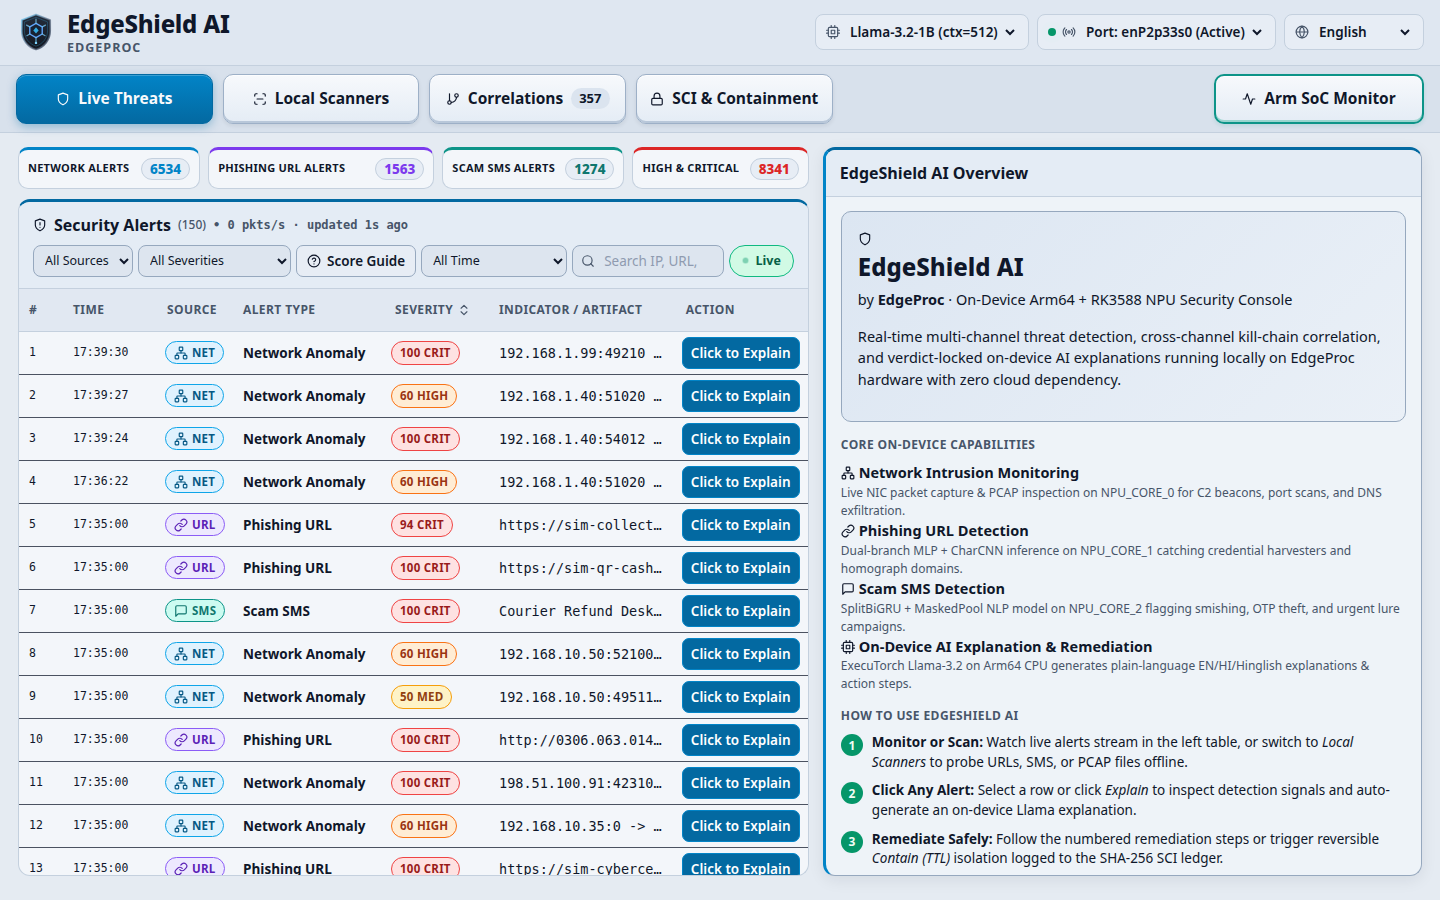
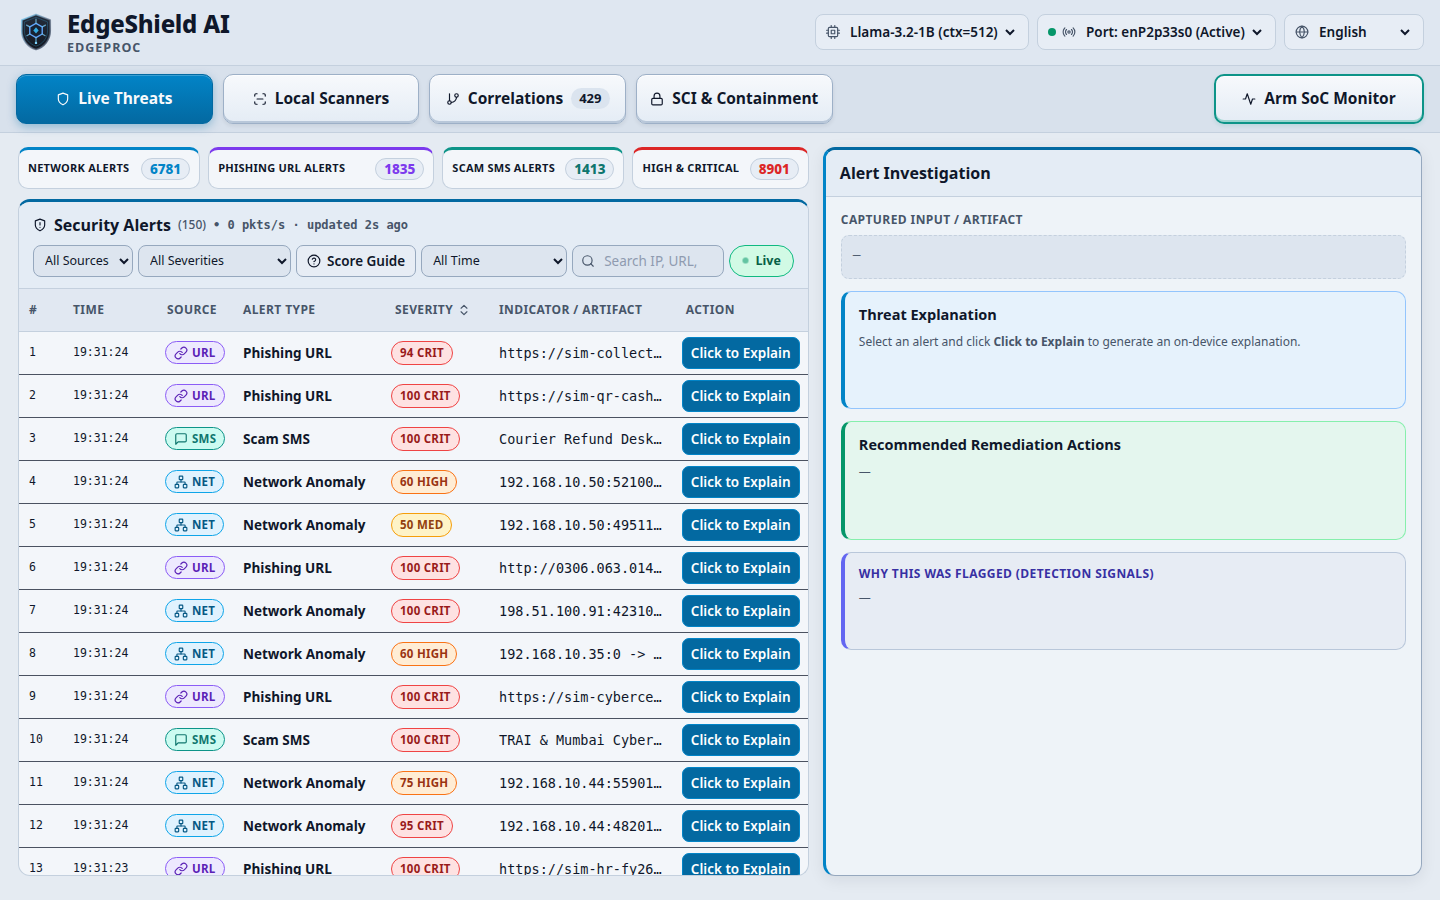
Updated UI

diff --git a/app/static/index.html b/app/static/index.html
@@ -1088,31 +1088,28 @@
       background: #dbeafe;
       box-shadow: inset 3px 0 0 #0ea5e9;
     }
-    @keyframes newRowPulseNet {
-      0%, 100% { background: transparent; box-shadow: inset 4px 0 0 transparent; }
-      45% { background: rgba(2, 132, 199, 0.26); box-shadow: inset 4px 0 0 #0284c7; }
-    }
-    @keyframes newRowPulseUrl {
-      0%, 100% { background: transparent; box-shadow: inset 4px 0 0 transparent; }
-      45% { background: rgba(124, 58, 237, 0.24); box-shadow: inset 4px 0 0 #7c3aed; }
-    }
-    @keyframes newRowPulseSms {
-      0%, 100% { background: transparent; box-shadow: inset 4px 0 0 transparent; }
-      45% { background: rgba(13, 148, 136, 0.24); box-shadow: inset 4px 0 0 #0d9488; }
-    }
+    /* Static non-blinking border highlight for new alerts by criticality */
     .ev-row.ev-new,
     tr.ev-row.new-row,
     tr.ev-row.row-new {
-      animation: newRowPulseNet 0.8s ease-in-out 5;
+      box-shadow: inset 4px 0 0 #0284c7, inset 0 1px 0 rgba(2, 132, 199, 0.3), inset 0 -1px 0 rgba(2, 132, 199, 0.3);
+      background: rgba(2, 132, 199, 0.04);
     }
-    tr.ev-row.ev-new[data-src="net"] {
-      animation: newRowPulseNet 0.8s ease-in-out 5;
+    tr.ev-row.ev-new[data-tier="critical"] {
+      box-shadow: inset 4px 0 0 #dc2626, inset 0 1px 0 rgba(220, 38, 38, 0.42), inset 0 -1px 0 rgba(220, 38, 38, 0.42);
+      background: rgba(220, 38, 38, 0.05);
     }
-    tr.ev-row.ev-new[data-src="url"] {
-      animation: newRowPulseUrl 0.8s ease-in-out 5;
+    tr.ev-row.ev-new[data-tier="high"] {
+      box-shadow: inset 4px 0 0 #ea580c, inset 0 1px 0 rgba(234, 88, 12, 0.42), inset 0 -1px 0 rgba(234, 88, 12, 0.42);
+      background: rgba(234, 88, 12, 0.05);
     }
-    tr.ev-row.ev-new[data-src="sms"] {
-      animation: newRowPulseSms 0.8s ease-in-out 5;
+    tr.ev-row.ev-new[data-tier="medium"] {
+      box-shadow: inset 4px 0 0 #d97706, inset 0 1px 0 rgba(217, 119, 6, 0.42), inset 0 -1px 0 rgba(217, 119, 6, 0.42);
+      background: rgba(217, 119, 6, 0.05);
+    }
+    tr.ev-row.ev-new[data-tier="low"] {
+      box-shadow: inset 4px 0 0 #059669, inset 0 1px 0 rgba(5, 150, 105, 0.42), inset 0 -1px 0 rgba(5, 150, 105, 0.42);
+      background: rgba(5, 150, 105, 0.05);
     }
     tr.ev-row[data-src="net"] .new-tag { background: #0284c7; border-color: #0369a1; color: #f0f9ff; }
     tr.ev-row[data-src="url"] .new-tag { background: #7c3aed; border-color: #6d28d9; color: #f5f3ff; }
@@ -4364,7 +4361,7 @@ function renderOverviewTable() {
     const srcLow = String(e.source || '').toLowerCase();
     const srcKey = srcLow.includes('url') ? 'url' : srcLow.includes('sms') ? 'sms' : 'net';
     return `
-      <tr class="ev-row ${sel} ${fresh}" data-src="${srcKey}" data-event-id="${esc(e.event_id)}" tabindex="0" aria-selected="${sel ? 'true' : 'false'}"
+      <tr class="ev-row ${sel} ${fresh}" data-tier="${esc(tier)}" data-src="${srcKey}" data-event-id="${esc(e.event_id)}" tabindex="0" aria-selected="${sel ? 'true' : 'false'}"
           onclick="selectEvent('${eid}', true)"
           onkeydown="if(event.target.tagName!=='BUTTON'&&(event.key==='Enter'||event.key===' ')){event.preventDefault(); selectEvent('${eid}', true);}">
         <td class="mono muted" style="font-size:11.5px">${idx + 1}</td>
@@ -4496,52 +4493,32 @@ function renderWelcomePanel() {
     drawer.hidden = false;
     drawer.setAttribute('aria-hidden', 'false');
   }
-  if (titleEl) titleEl.textContent = 'EdgeShield AI Overview';
+  if (titleEl) titleEl.textContent = 'Alert Investigation';
   if (idEl) idEl.textContent = '';
   if (closeBtn) closeBtn.hidden = true;
   if (!body) return;
 
   body.innerHTML = `
-    <div class="welcome-panel">
-      <div class="welcome-hero">
-        <div class="welcome-brand-row">
-          <span class="welcome-logo">${ic('shield')}</span>
-          <div>
-            <h3 class="welcome-title">EdgeShield AI</h3>
-            <div class="welcome-byline">by <strong>EdgeProc</strong> &middot; On-Device Arm64 + RK3588 NPU Security Console</div>
-          </div>
-        </div>
-        <p class="welcome-desc">
-          Real-time multi-channel threat detection, cross-channel kill-chain correlation, and verdict-locked on-device AI explanations running locally on EdgeProc hardware with zero cloud dependency.
-        </p>
+    <div class="insp-empty-state" style="display:flex;flex-direction:column;gap:12px">
+      <div class="insp-section" style="margin-bottom:0">
+        <div class="insp-label">Captured Input / Artifact</div>
+        <div class="code-box" style="min-height:44px;color:var(--muted);border-style:dashed">&mdash;</div>
       </div>
 
-      <div class="insp-label" style="margin:14px 0 8px">Core On-Device Capabilities</div>
-      <div class="welcome-cap-grid">
-        <div class="welcome-cap-tile">
-          <div class="welcome-cap-head">${ic('network')} <strong>Network Intrusion Monitoring</strong></div>
-          <div class="muted">Live NIC packet capture &amp; PCAP inspection on NPU_CORE_0 for C2 beacons, port scans, and DNS exfiltration.</div>
-        </div>
-        <div class="welcome-cap-tile">
-          <div class="welcome-cap-head">${ic('link')} <strong>Phishing URL Detection</strong></div>
-          <div class="muted">Dual-branch MLP + CharCNN inference on NPU_CORE_1 catching credential harvesters and homograph domains.</div>
-        </div>
-        <div class="welcome-cap-tile">
-          <div class="welcome-cap-head">${ic('message')} <strong>Scam SMS Detection</strong></div>
-          <div class="muted">SplitBiGRU + MaskedPool NLP model on NPU_CORE_2 flagging smishing, OTP theft, and urgent lure campaigns.</div>
-        </div>
-        <div class="welcome-cap-tile">
-          <div class="welcome-cap-head">${ic('cpu')} <strong>On-Device AI Explanation &amp; Remediation</strong></div>
-          <div class="muted">ExecuTorch Llama-3.2 on Arm64 CPU generates plain-language EN/HI/Hinglish explanations &amp; action steps.</div>
-        </div>
+      <div class="advisory-exp-card llama-card" style="margin-top:0">
+        <h4><span>Threat Explanation</span></h4>
+        <div class="llama-text muted" style="min-height:64px">Select an alert and click <strong>Click to Explain</strong> to generate an on-device explanation.</div>
       </div>
 
-      <div class="insp-label" style="margin:14px 0 8px">How to Use EdgeShield AI</div>
-      <ol class="welcome-steps">
-        <li><span class="step-num">1</span><span><strong>Monitor or Scan:</strong> Watch live alerts stream in the left table, or switch to <em>Local Scanners</em> to probe URLs, SMS, or PCAP files offline.</span></li>
-        <li><span class="step-num">2</span><span><strong>Click Any Alert:</strong> Select a row or click <em>Explain</em> to inspect detection signals and auto-generate an on-device Llama explanation.</span></li>
-        <li><span class="step-num">3</span><span><strong>Remediate Safely:</strong> Follow the numbered remediation steps or trigger reversible <em>Contain (TTL)</em> isolation logged to the SHA-256 SCI ledger.</span></li>
-      </ol>
+      <div class="advisory-rem-card llama-card" style="margin-top:0">
+        <h4><span>Recommended Remediation Actions</span></h4>
+        <div class="muted" style="min-height:64px">&mdash;</div>
+      </div>
+
+      <div class="insp-signals-card" style="margin-top:0">
+        <div class="insp-label" style="color:#3730a3">Why This Was Flagged (Detection Signals)</div>
+        <div class="muted" style="min-height:48px">&mdash;</div>
+      </div>
     </div>`;
 }
 
